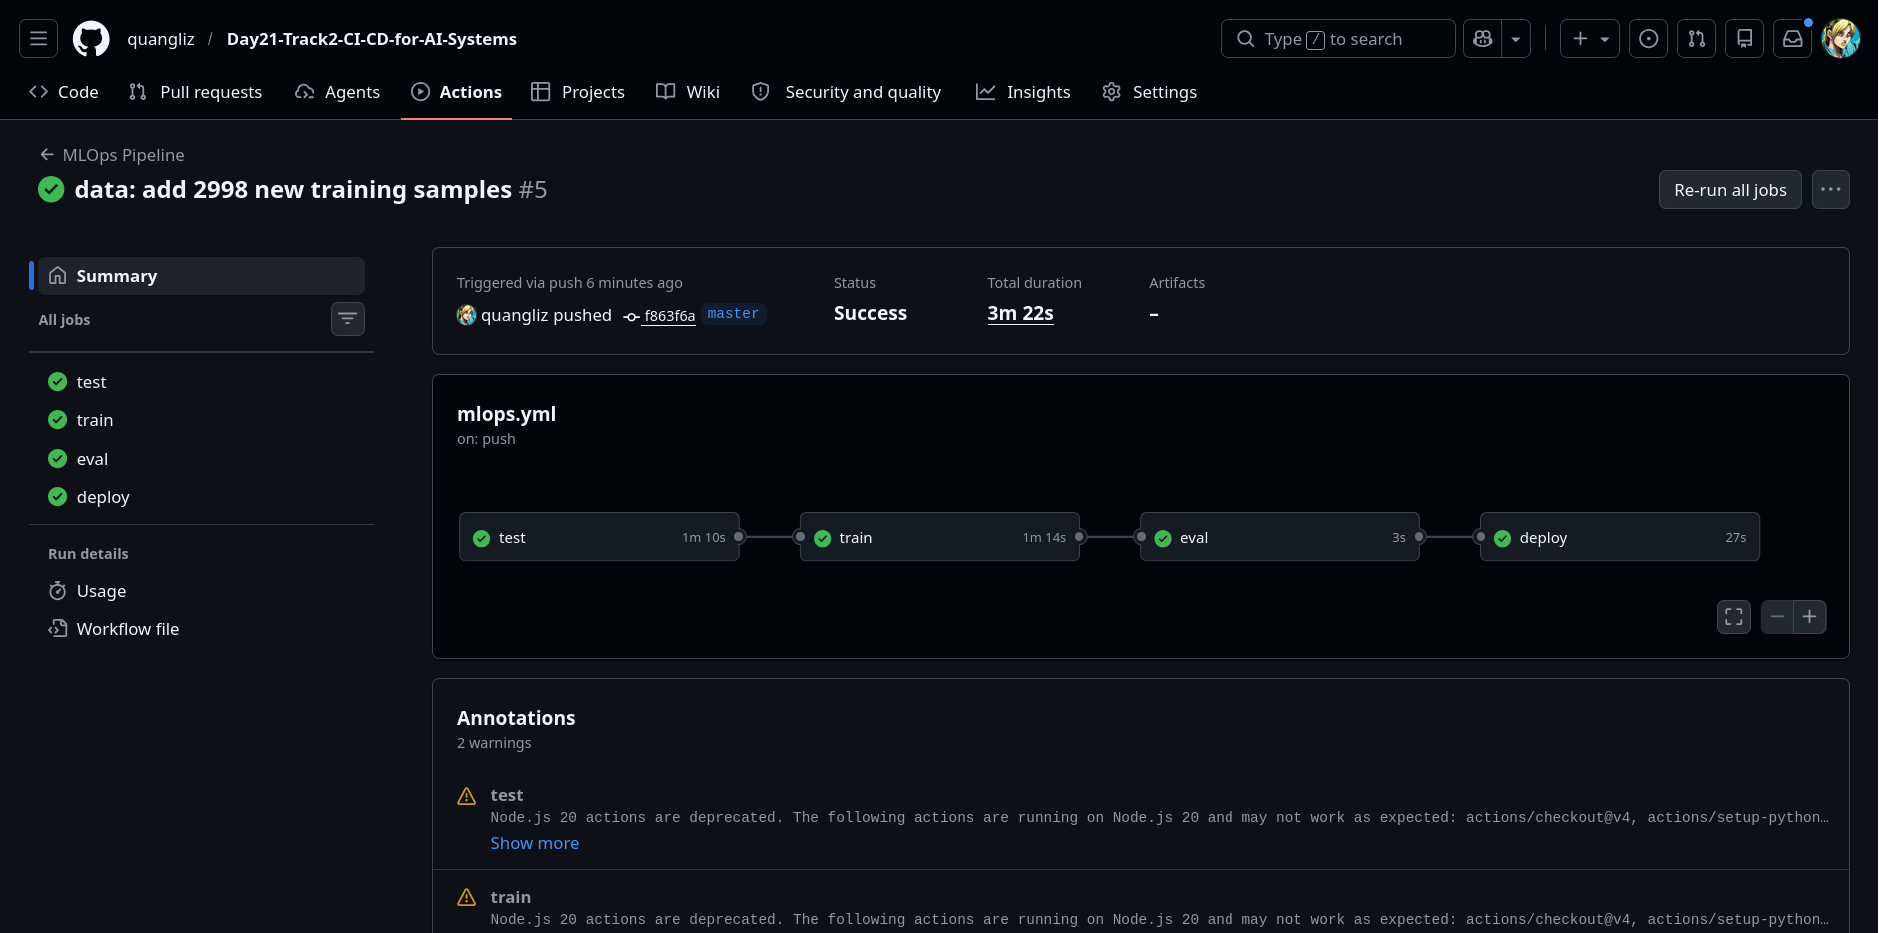
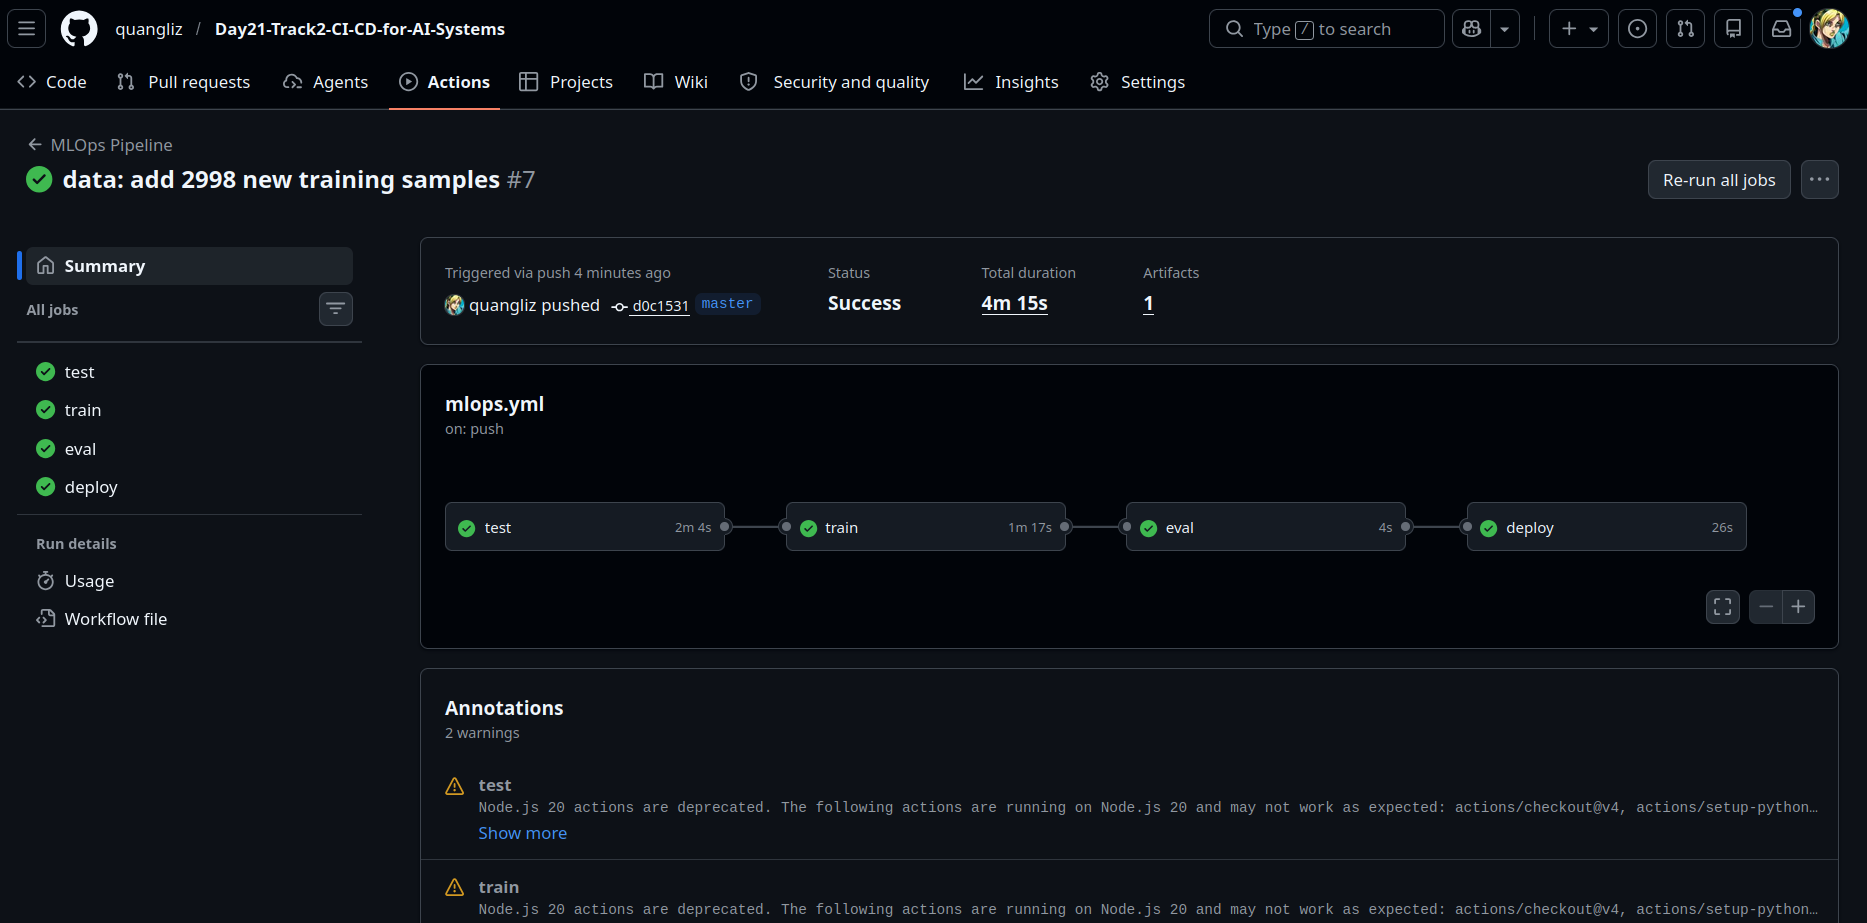
update submission [skip ci]

diff --git a/tasks/buoc-3.md b/tasks/buoc-3.md
@@ -119,8 +119,8 @@ Tải file `outputs/metrics.json` từ artifacts của hai lần chạy để so
 
 | Chỉ số | Bước 2 (2998 mẫu) | Bước 3 (5996 mẫu) |
 |---|---|---|
-| accuracy | ? | ? |
-| f1_score | ? | ? |
+| accuracy | 0.648 | 0.664 |
+| f1_score | 0.6464385240147148 | 0.660288582511881 |
 
 Điền vào bảng trên dựa trên kết quả thực tế của bạn. Nếu mô hình mới có accuracy cao hơn, điều đó chứng tỏ thêm dữ liệu làm tăng hiệu quả mô hình.
 